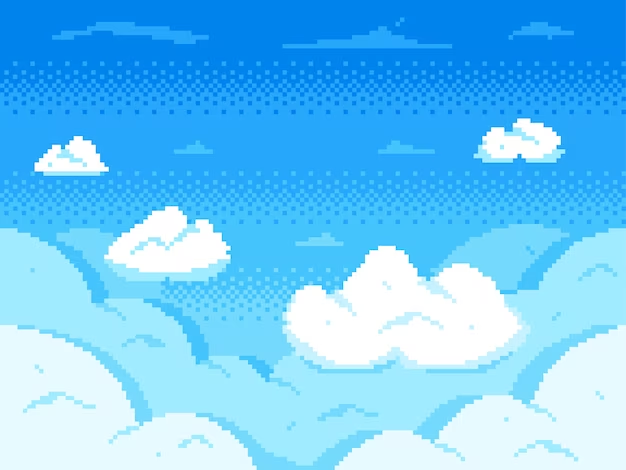
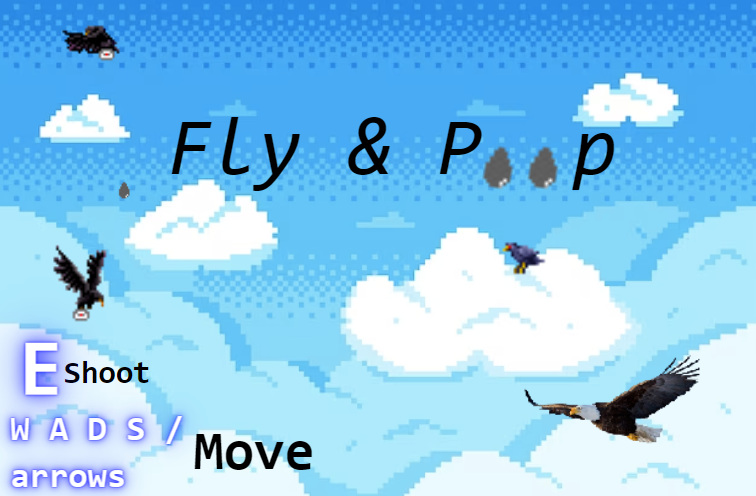
pls god

diff --git a/styles.css b/styles.css
@@ -3,12 +3,14 @@ canvas {
     background-size: cover;
     background-position: center;
 }
+
 body {
     height: 100vh;
     margin: 0;
     padding: 0;
     overflow: hidden;
 }
+
 menu {
     height: 100vh;
     display: flex;
@@ -18,6 +20,7 @@ menu {
     background-size: cover;
     background-position: center;
 }
+
 .main-button {
     font-family: 'Ultra', sans-serif;
     font-size: 32px;

diff --git a/src/game.js b/src/game.js
@@ -38,7 +38,7 @@ const game = {
         this.gameOverScreen = new Image()
         this.gameOverScreen.src = "./GameOver.png"
         this.background = new Image()
-        this.background.src = "./assets/images/background.jpg"
+        this.background.src = "./Menu.png"
 
     },
 
